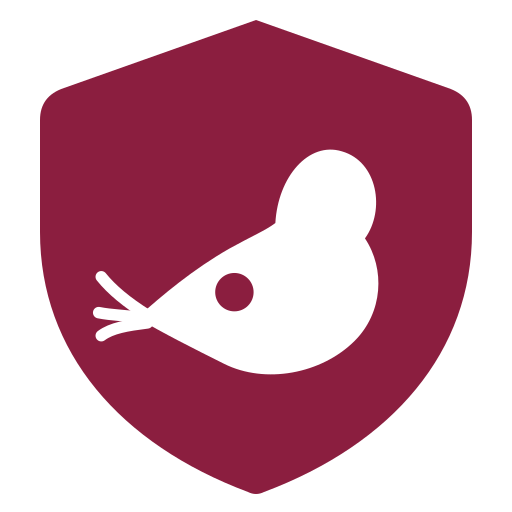
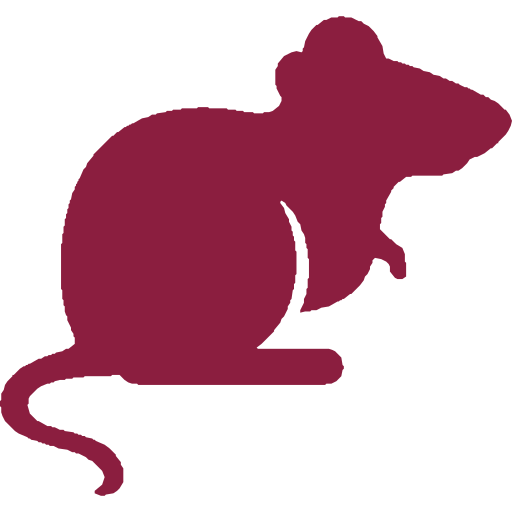
Replace the mark with a clean rat silhouette used everywhere
The old mark (a rat in a shield with detached whiskers) read poorly at
small sizes and the AMO listing showed the generic puzzle-piece icon
because the XPI manifest icons only feed the in-browser toolbar, not the
AMO listing. This replaces it with a single, whisker-less rat silhouette
in the brand accent, facing right, traced from a reference image:

  - design/reference-rat.png is now the authoritative mark.
  - design/trace-rat.py traces it (Moore boundary trace + Douglas-Peucker)
    and design/assemble-icon.py wraps the path as design/icon.svg.
  - design/banner.svg reuses that one path with <use href="icon.svg#rat"
    color="#ffffff">, so the icon and banner can never drift apart
    (the mark is defined once, no hand-synced duplicate).
  - All PNGs regenerated from the new SVGs; web-ext lint passes
    with 0 errors.

update-amo-listing.mjs now uploads the listing icon (PATCH /addons/
addon/<id>/ `icon` field) as well as the banner, and replaces the
banner preview idempotently (upload first, then best-effort delete
old) so a 429 throttle on delete cannot fail the step.

diff --git a/design/trace-rat.py b/design/trace-rat.py
@@ -1,0 +1,85 @@
+#!/usr/bin/env python3
+"""Trace a solid black-on-white silhouette PNG into an SVG path."""
+import sys
+import numpy as np
+from PIL import Image
+
+# clockwise neighbour offsets in (row, col): N,NE,E,SE,S,SW,W,NW
+CW = [(-1,0),(-1,1),(0,1),(1,1),(1,0),(1,-1),(0,-1),(-1,-1)]
+
+def moore(mask):
+    m = np.pad(mask, 1, constant_values=False)
+    rows, cols = np.where(m)
+    top = rows.min()
+    left = cols[rows == top].min()
+    start = (int(top), int(left))
+    bt0 = (start[0], start[1]-1)          # backtracker: west of start
+    contour = []
+    b, p = start, bt0
+    while True:
+        contour.append(b)
+        po = (p[0]-b[0], p[1]-b[1])     # offset from b to backtracker p
+        idx = CW.index(po)                 # start cw scan AFTER p
+        nxt = None
+        for k in range(1, 9):
+            off = CW[(idx+k) % 8]
+            if m[b[0]+off[0], b[1]+off[1]]:
+                prev = CW[(idx+k-1) % 8]     # last neighbour before the hit
+                nxt = (b[0]+off[0], b[1]+off[1])
+                new_p = (b[0]+prev[0], b[1]+prev[1])
+                break
+        if nxt is None:
+            break                       # isolated pixel
+        b, p = nxt, new_p
+        if b == start and p == bt0:      # Jacob stop: back to start, same backtracker
+            break
+    return contour
+
+def dp(points, eps):
+    if len(points) < 3:
+        return points[:]
+    def rec(pts):
+        if len(pts) < 3:
+            return pts
+        a, b = pts[0], pts[-1]
+        dmax, idx = 0, -1
+        for i in range(1, len(pts)-1):
+            d = abs(perp(pts[i], a, b))
+            if d > dmax:
+                dmax, idx = d, i
+        if dmax > eps:
+            return rec(pts[:idx+1]) + rec(pts[idx:])[1:]
+        return [a, b]
+    return rec(points)
+
+def perp(p, a, b):
+    return (b[0]-a[0])*(p[1]-a[1]) - (b[1]-a[1])*(p[0]-a[0])
+
+def main():
+    im = Image.open(sys.argv[1]).convert('L')
+    mask = np.array(im) < 128
+    contour = moore(mask)
+    pts = dp(contour, float(sys.argv[2]) if len(sys.argv) > 2 else 1.5)
+    # bounding box
+    ys = [p[0] for p in pts]; xs = [p[1] for p in pts]
+    y0, y1 = min(ys), max(ys); x0, x1 = min(xs), max(xs)
+    sw, sh = x1-x0, y1-y0
+    side = max(sw, sh)
+    # scale to 128, center
+    S = 128.0
+    scale = S / side
+    ox = (S - sw*scale) / 2.0
+    oy = (S - sh*scale) / 2.0
+    def tx(p):
+        return (p[1]-x0)*scale + ox, (p[0]-y0)*scale + oy
+    out = [tx(p) for p in pts]
+    d = 'M %.2f %.2f ' % out[0]
+    for p in out[1:]:
+        d += 'L %.2f %.2f ' % p
+    d += 'Z'
+    print('<svg xmlns="http://www.w3.org/2000/svg" viewBox="0 0 128 128" width="128" height="128">')
+    print('<path fill="#8b1e3f" d="%s"/>' % d)
+    print('</svg>')
+
+if __name__ == '__main__':
+    main()

diff --git a/design/assemble-icon.py b/design/assemble-icon.py
@@ -1,0 +1,21 @@
+#!/usr/bin/env python3
+"""Assemble design/icon.svg from the traced path + a header."""
+import sys
+
+HEADER = '''<svg xmlns="http://www.w3.org/2000/svg" viewBox="0 0 128 128" width="128" height="128"
+     role="img" aria-label="RatBlocker">
+  <title>RatBlocker</title>
+  <!--
+    Authoritative source for every RatBlocker icon. Auto-traced from
+    design/reference-rat.png with design/trace-rat.py (Moore-neighbor
+    boundary trace + Douglas-Peucker simplification). To re-derive, edit the
+    reference image (or the tracer) and re-run the render command in
+    design/README.md. The mark is a single rat silhouette in the brand
+    accent #8b1e3f, facing right; it carries at every size, and the shield
+    the old icon wrapped it in has been dropped for a cleaner mark.
+  -->
+'''
+FOOTER = '</svg>\n'
+
+path = open(sys.argv[1]).read().strip()
+sys.stdout.write(HEADER + path + '\n' + FOOTER)

diff --git a/design/README.md b/design/README.md
@@ -1,38 +1,43 @@
 # Design assets
 
-`icon.svg` and `banner.svg` are the **authoritative sources**. Every PNG in this
-directory and in `extensions/shared/icons/` is generated from them — edit the
-SVG, re-run the commands below, and commit both the SVG and the regenerated
-PNGs. Do not touch the PNGs by hand.
+`design/reference-rat.png` is the **authoritative mark**: a clean, whisker-less
+rat silhouette in profile, facing right. `design/icon.svg` and `design/banner.svg`
+are both *derived* from it — edit the reference image (or the tracer), re-run the
+commands below, and commit the regenerated SVG and PNGs. Do not hand-edit the
+SVG paths or touch the PNGs by hand.
 
 ## The mark
 
-A shield holding a rat's head in profile, in the brand accent `#8b1e3f` (the
-same accent used by `extensions/shared/ui/ui.css`) with a white knockout.
+A single rat silhouette in the brand accent `#8b1e3f` (the same accent used by
+`extensions/shared/ui/ui.css`), facing right, in a crouched posture with one
+ear, a pointed snout, a long curved tail, and a small front paw. It is a pure
+silhouette — no eyes, no whiskers, no shield — which is what makes it read at
+16px: the whole shape is the silhouette, and there are no fine details to lose.
 
-The two elements carry different weights on purpose. Only the shield has to
-survive at 16px, where it supplies the whole silhouette in a browser toolbar;
-the head is allowed to resolve from 32px upwards, and the head is scaled to
-0.64 of the shield's safe area so a band of accent survives on every side at
-that size.
+The previous mark wrapped a rat in a shield and gave it detached whiskers;
+both read poorly at small sizes (the shield left no room for the rat, and the
+whiskers floated off the nose). The new mark drops the shield and the
+whiskers entirely for a cleaner shape that scales from 16px to 512px.
 
-The head is one closed outline, not a union of primitives. Unions were tried
-first and kept collapsing: the ear merged into the skull and the muzzle read as
-a flag, leaving an anonymous teardrop. The whiskers matter more than they look
-— a tapered muzzle beside a round ear reads just as readily as a bird, and
-three strokes leaving the snout are what settle it as a rodent. They fall below
-a pixel at 16px and disappear, which is the intended degradation.
-
-`banner.svg` reuses those shapes verbatim, inverted (white shield, plum rat), on
-a dark field of its own so the banner reads the same in a light or a dark
+`banner.svg` does not copy the rat — it reuses the one definition from
+`icon.svg` (`<use href="icon.svg#rat">` with `color="#ffffff"`), so the
+icon and the banner can never drift apart. The banner inverts the mark to white
+on its own dark field (`#2a0f1c`) so it reads the same in a light or a dark
 README.
 
 ## Rendering
 
-Rendered with [`rsvg-convert`](https://gitlab.gnome.org/GNOME/librsvg) (Debian
-and Ubuntu: `librsvg2-bin`). Run from the repository root:
+The rat is traced from the reference PNG with [`rsvg-convert`](https://gitlab.gnome.org/GNOME/librsvg)
+and `design/trace-rat.py` (Moore-neighbor boundary trace + Douglas-Peucker
+simplification), then wrapped with `design/assemble-icon.py`. Run from the
+repository root:
 
 ```sh
+# Re-trace the rat from the reference image, then wrap it as icon.svg.
+PYTHONPATH=/usr/lib/python3/dist-packages \
+  python3 design/trace-rat.py design/reference-rat.png 3.0 > /tmp/rat-path.txt
+python3 design/assemble-icon.py /tmp/rat-path.txt > design/icon.svg
+
 # Extension icons. These paths and filenames are referenced by both browser
 # manifests, so they must not change.
 for size in 16 32 48 128; do
@@ -45,7 +50,7 @@ for size in 256 512; do
     rsvg-convert -w "$size" -h "$size" design/icon.svg -o "design/icon-$size.png"
 done
 
-# Banner.
+# Banner. Reuses the rat from icon.svg in white on the dark field.
 rsvg-convert -w 1280 design/banner.svg -o design/banner.png
 
 # AMO listing preview. AMO prefers 1280x800 screenshots; the banner is
